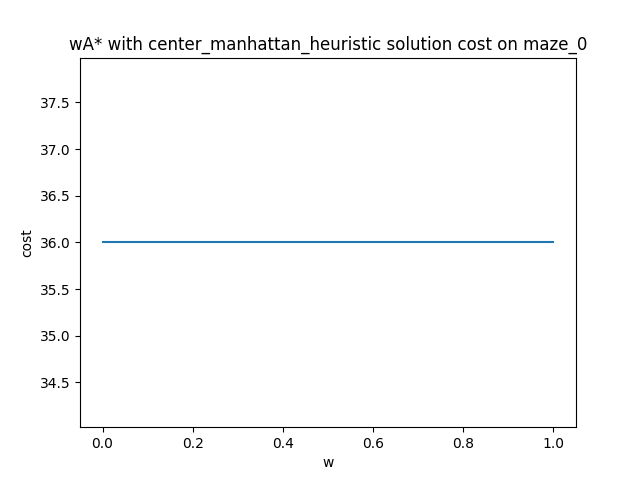
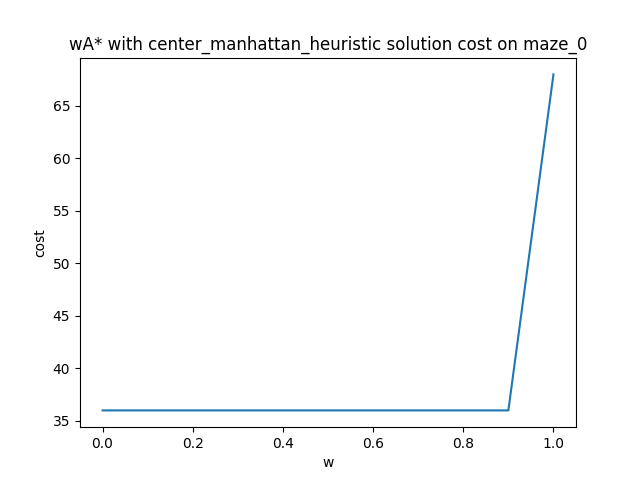
short robot heuristic and experiment

diff --git a/Heuristics.py b/Heuristics.py
@@ -14,7 +14,7 @@ def tail_manhattan_heuristic(state: MazeState):
 
 def center_manhattan_heuristic(state: MazeState):
     # TODO (EX 9.2), implement heuristic, delete exception
-    center_pos = state.tail + state.head / 2
+    center_pos = (state.tail + state.head) / 2
     center_goal = (state.maze_problem.tail_goal + state.maze_problem.head_goal) / 2
     return np.sum(abs(center_goal - center_pos))
 
@@ -28,7 +28,8 @@ class ShorterRobotHeuristic:
         ################################################################################################################
         # TODO (EX. 13.2): replace all three dots, delete exception
         shorter_robot_head_goal, shorter_robot_tail_goal = self._compute_shorter_head_and_tails(maze_problem.head_goal, maze_problem.tail_goal)
-        shorter_robot_head_initial, shorter_robot_tail_initial = self._compute_shorter_head_and_tails(maze_problem.initial_state.head, maze_problem.initial_state.tail)
+        shorter_robot_head_initial, shorter_robot_tail_initial = self._compute_shorter_head_and_tails(
+            maze_problem.initial_state.head, maze_problem.initial_state.tail)
         self.new_maze_problem = MazeProblem(maze_map=maze_problem.maze_map,
                                             initial_head=shorter_robot_tail_goal,
                                             initial_tail=shorter_robot_head_goal,
@@ -68,6 +69,6 @@ class ShorterRobotHeuristic:
             node = self.node_dists.get_node(new_state)
             return node.g_value
         else:
-            return center_manhattan_heuristic(state)
+            return float("INF")
             # what should we return in this case, so that the heuristic would be as informative as possible
                         # but still admissible

diff --git a/Experiments.py b/Experiments.py
@@ -41,8 +41,10 @@ def shorter_robot_heuristic_experiment(maze_index):
     for k in ks:
         ################################################################################################################
         # TODO (EX. 16.3): complete code here, delete exception
-        raise NotImplemented
-
+        short_robot = WAStartRobot(heuristic=ShorterRobotHeuristic, k=k)
+        short_robot_solution = short_robot.solve(problem)
+        solve_times.append(short_robot_solution.solve_time)
+        heuristic_init_times.append(short_robot_solution.init_heuristic_time)
         ################################################################################################################
 
     plt.bar(ks, height=solve_times, color="b", label="total run time")

diff --git a/main.py b/main.py
@@ -7,5 +7,10 @@ from Experiments import *
 
 
 if __name__ == "__main__":
-    for k in [2,4,6,8]:
-        test_robot(WAStartRobot, [3, 4], heuristic=ShorterRobotHeuristic, k = k)
+    # for k in [2, 4, 6, 8]:
+    #     test_robot(WAStartRobot, [3, 4], heuristic=ShorterRobotHeuristic, k=k)
+
+    # for k in range(2, 6):
+    #     shorter_robot_heuristic_experiment(k)
+    for k in range(0, 3):
+        w_experiment(k)
